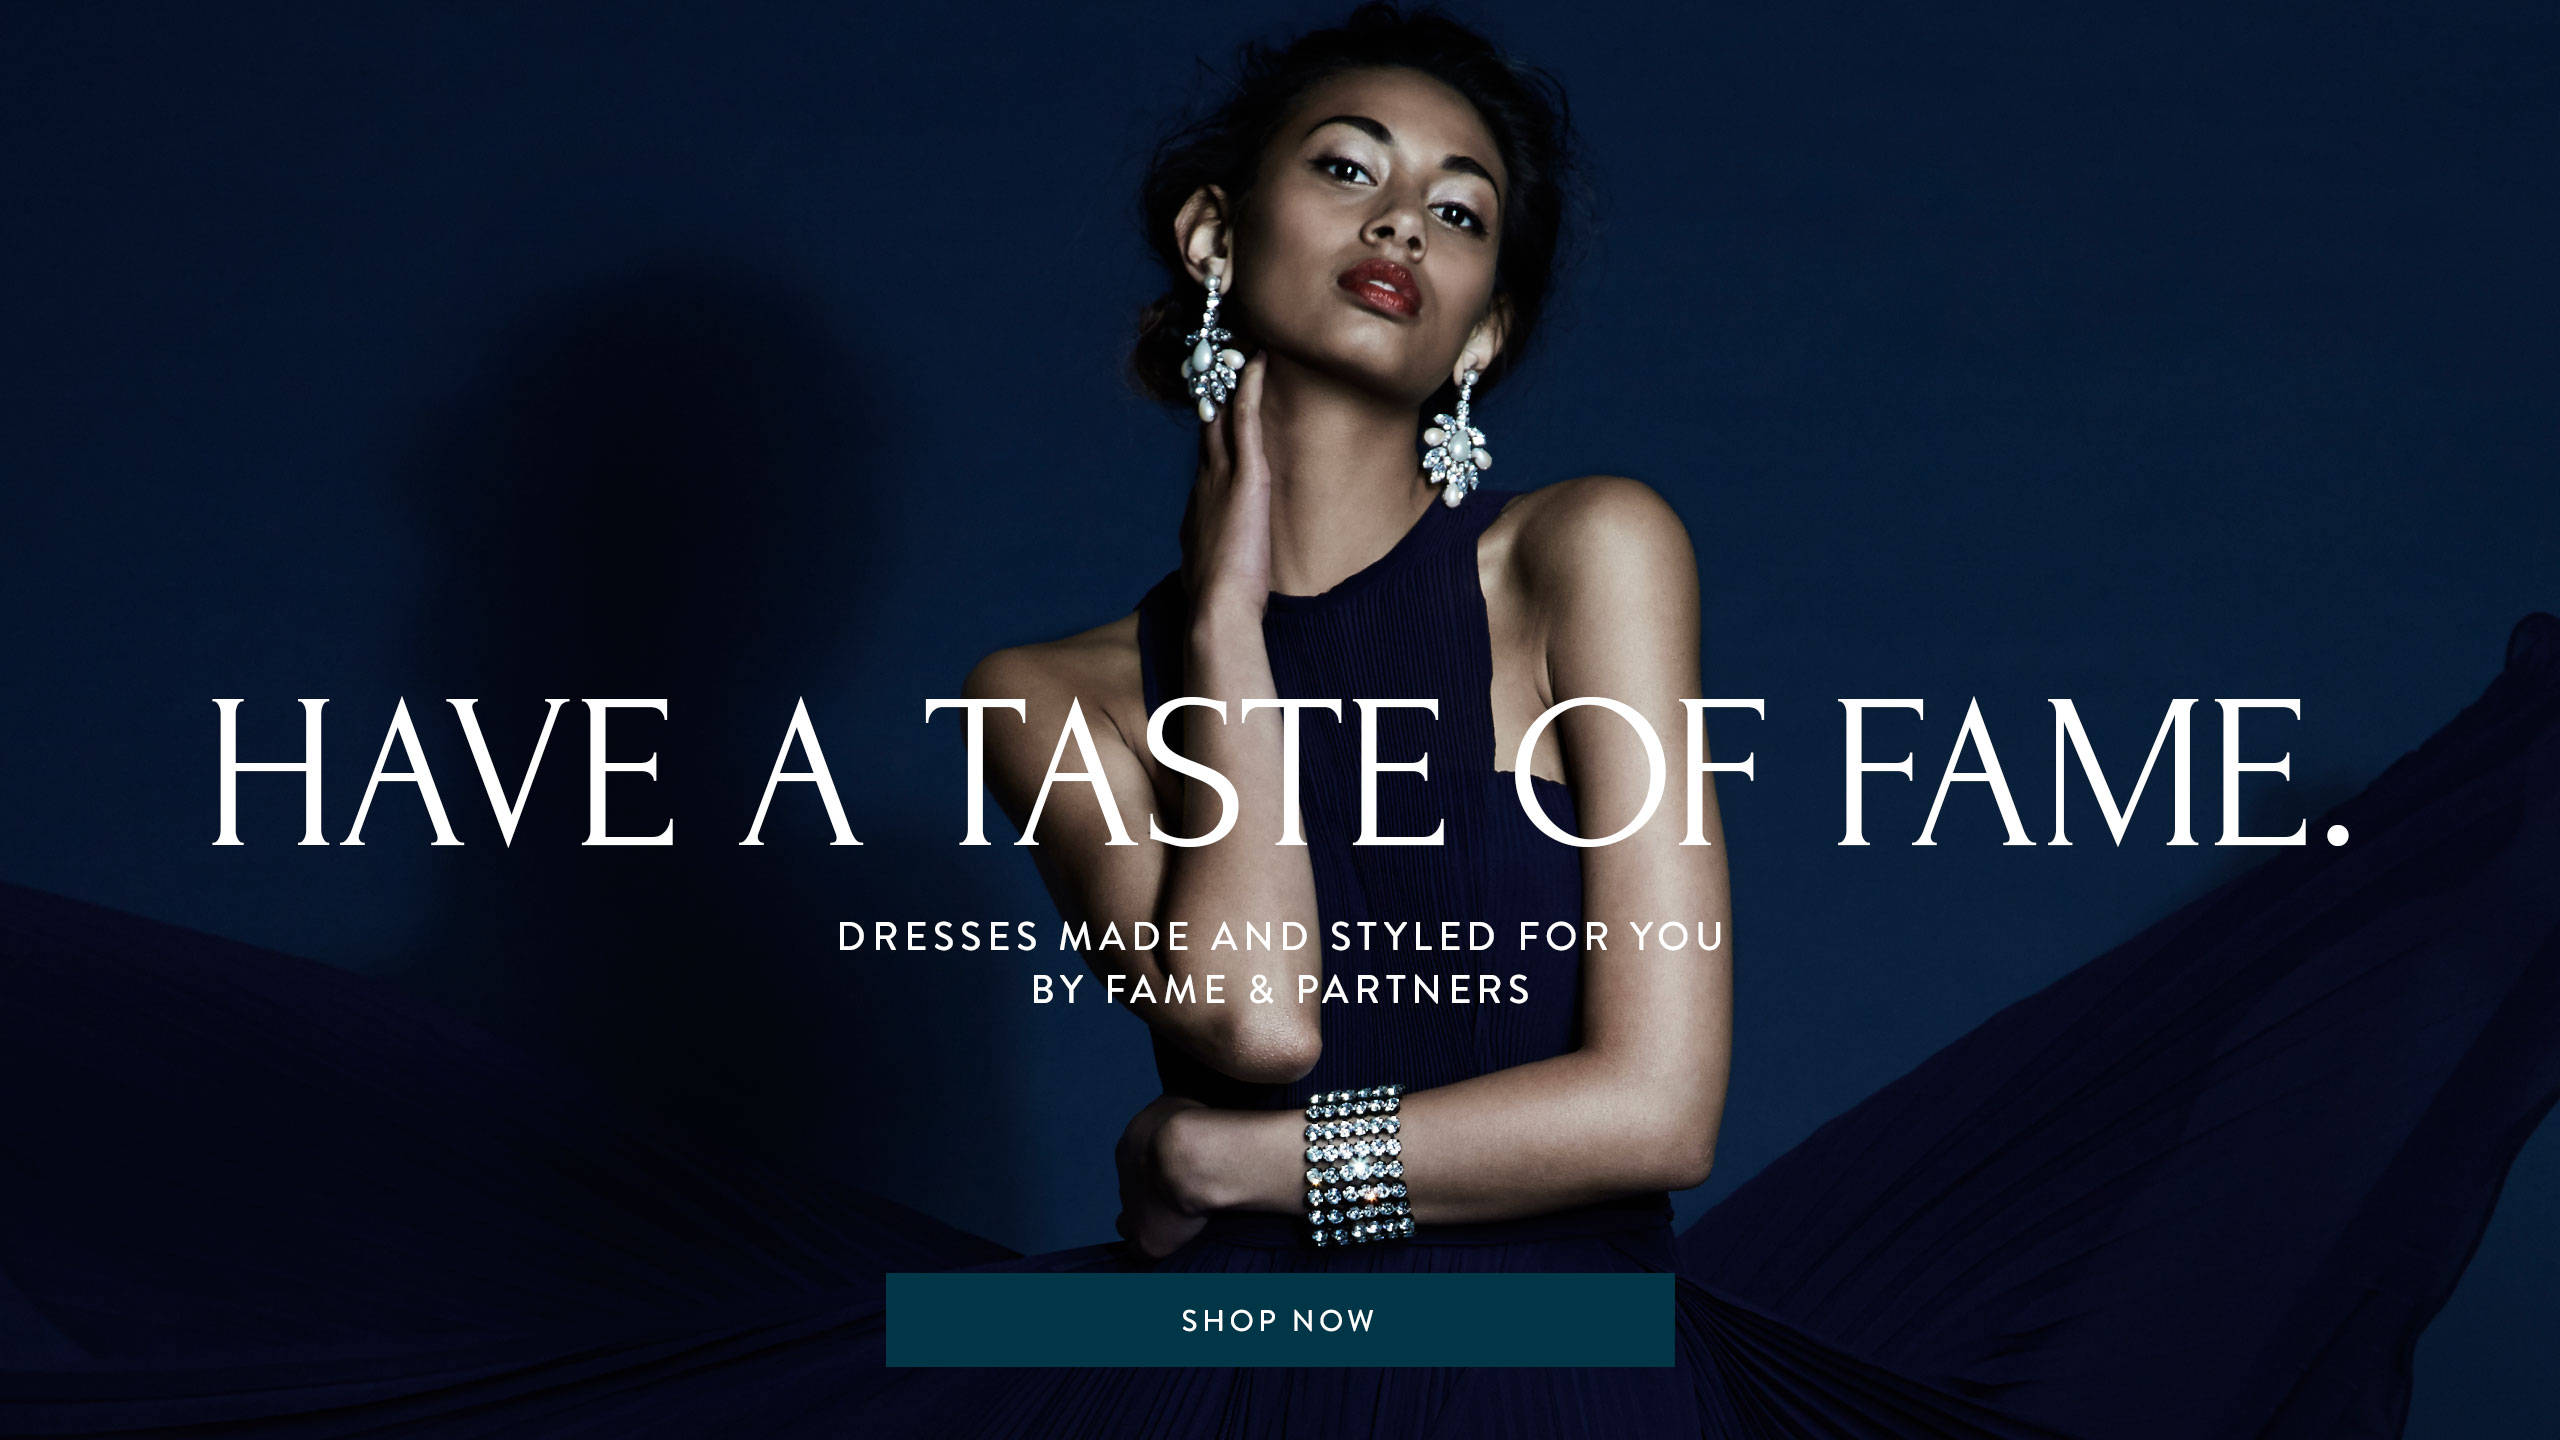
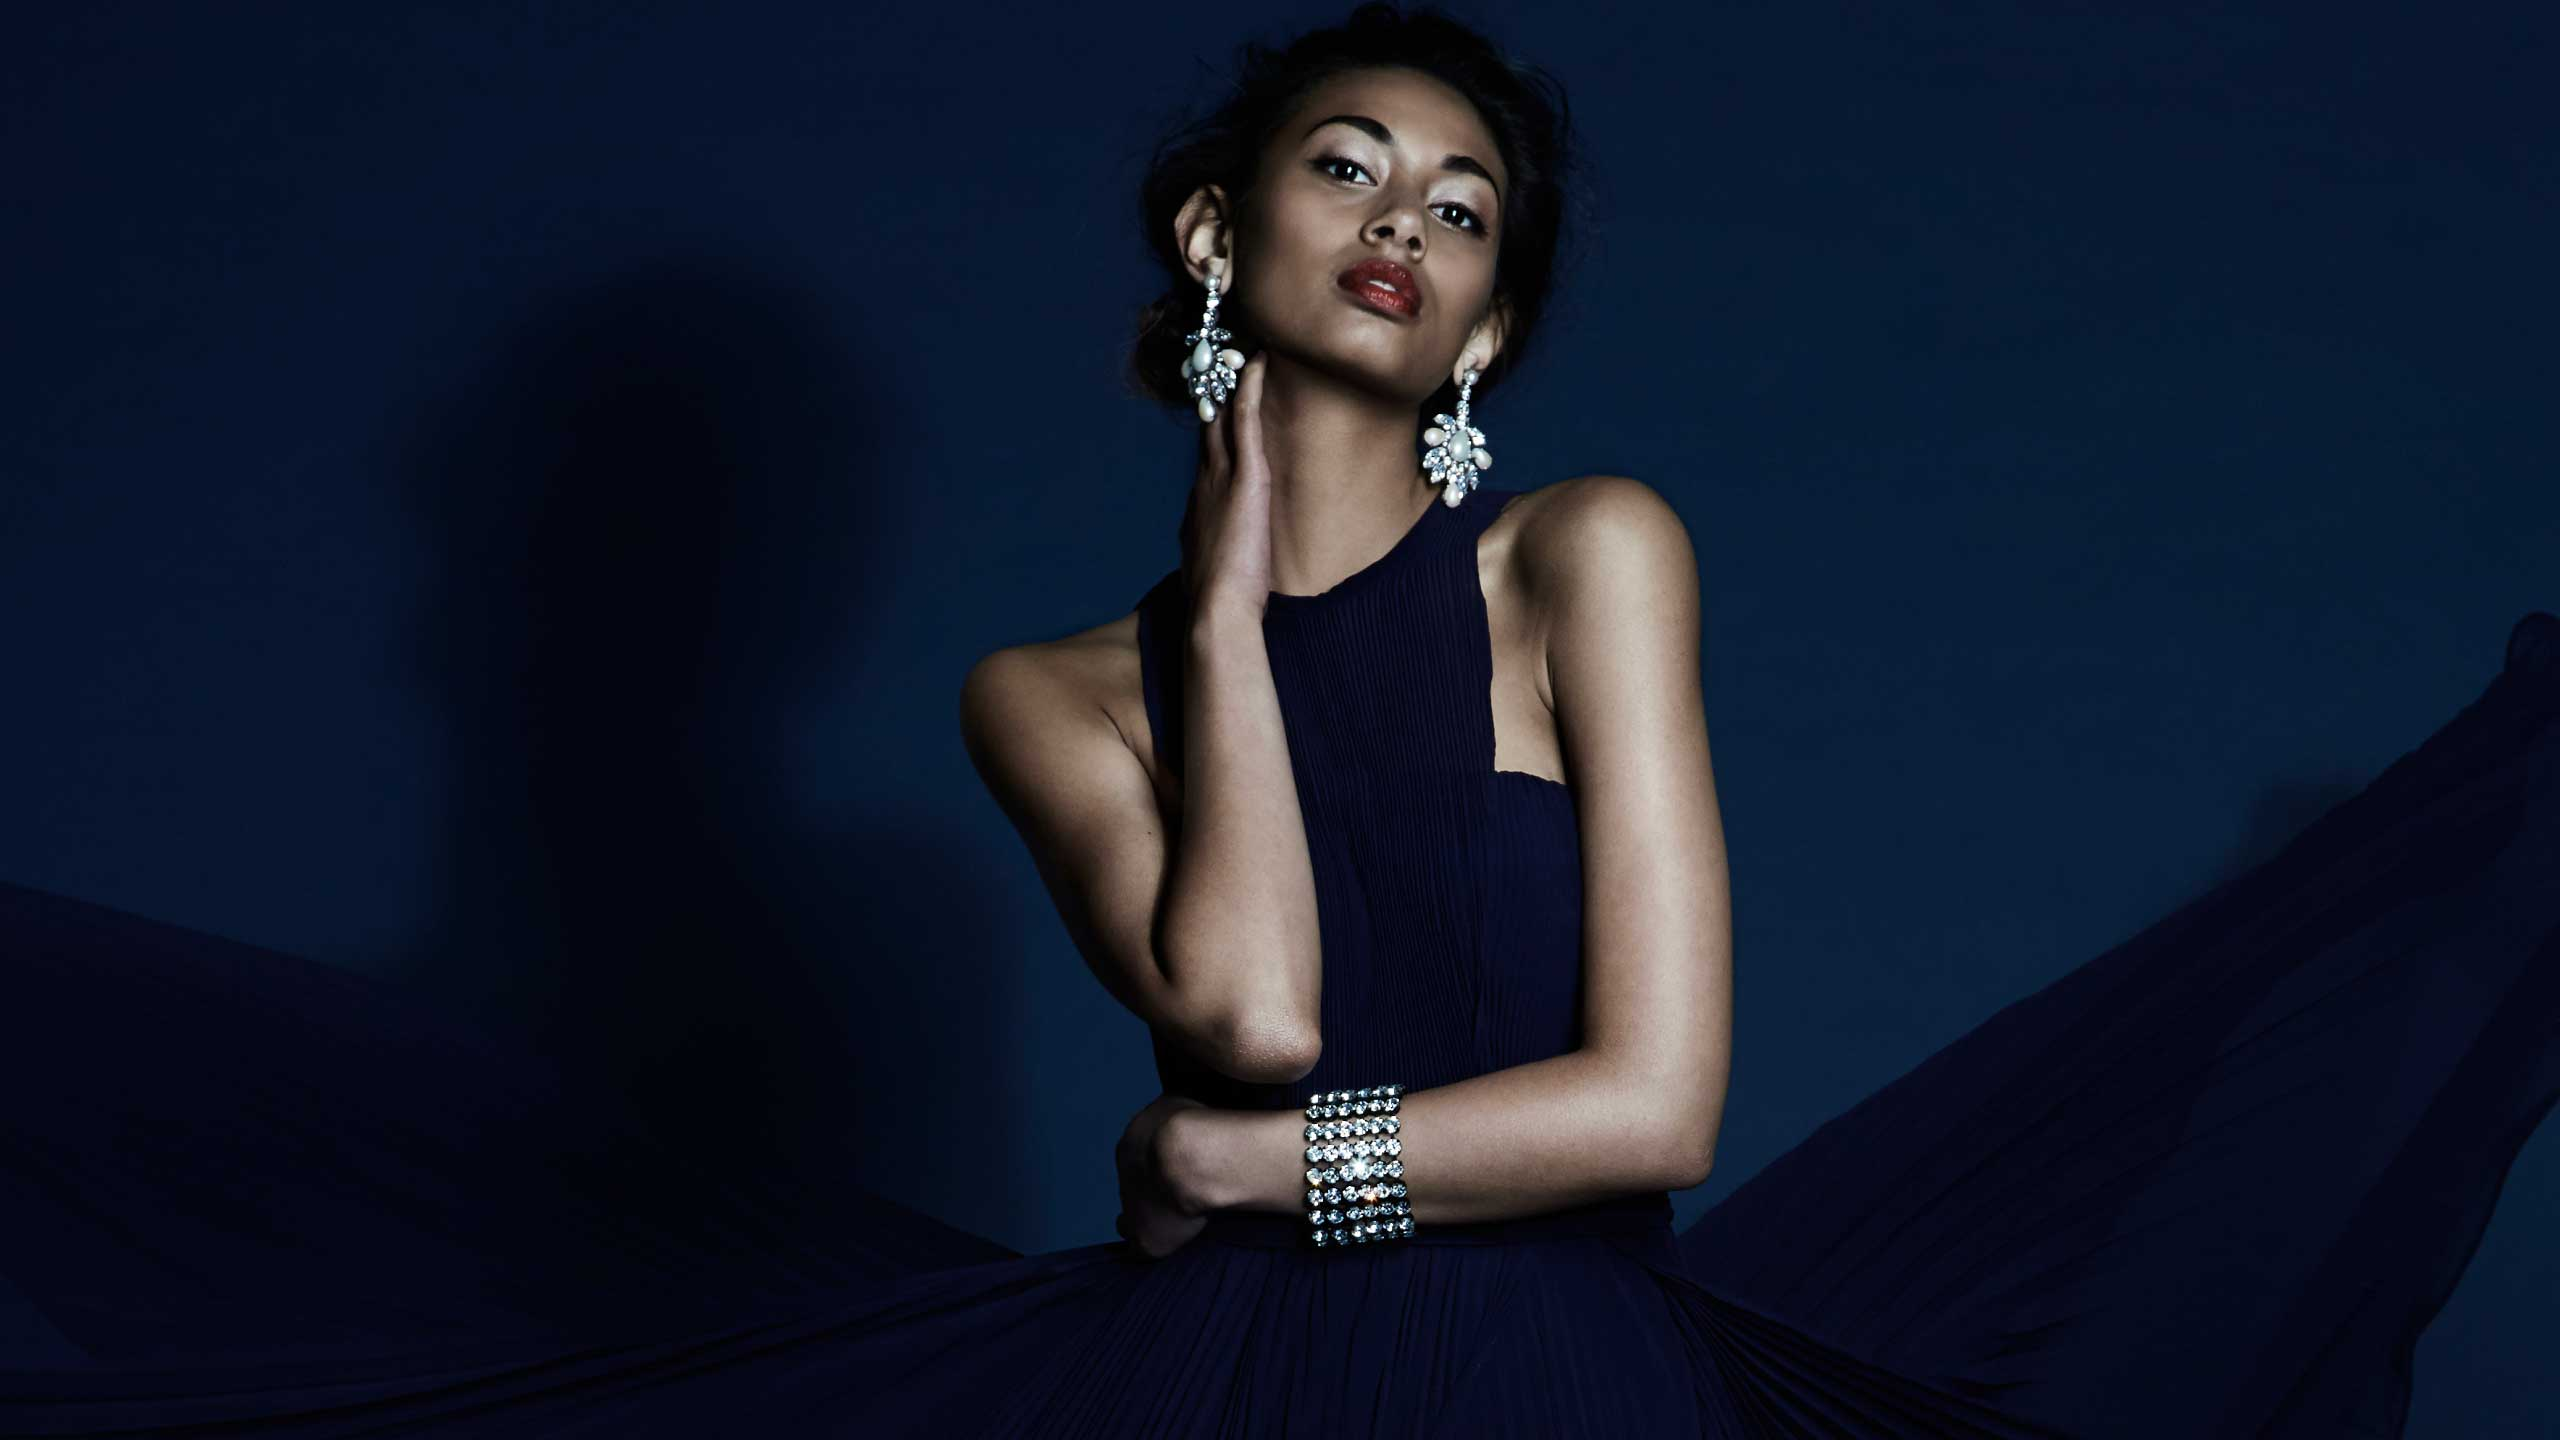
[feat][slider]: add images and style

diff --git a/app/assets/stylesheets/redesign/_index.css.scss b/app/assets/stylesheets/redesign/_index.css.scss
@@ -1,5 +1,9 @@
 .caption-title {
-	color: black;
+	color: white;
+	text-transform: uppercase;
+	font-family: forum;
+	font-size: 10.6rem;
+	letter-spacing: -1px;
 }
 
 .page-content.index {
@@ -128,7 +132,115 @@
 		font-size: 1.5rem;
 		margin-bottom: 0;
 	}
-
 }
+
+.taste-of-fame {
+	background-image: url('taste-of-fame.jpg');
+
+	.promotion {
+		text-align: center;
+		height: 50%;
+		margin-top: 30%;
+
+		p {
+			text-transform: uppercase;
+			color: white;
+			font-weight: 600;
+			letter-spacing: 2px;
+			word-spacing: 2px;
+			width: 360px;
+			margin-right: auto;
+			margin-left: auto;
+		}
+	}
+}
+
+.taste-of-fame-btn {
+	background-color: #003647;
+	font-family: "Brandon Grotesque", sans-serif;
+	color: white;
+	margin-top: 11rem;
+	width: 33%;
+}
+
+.break-hearts {
+	background-image: url('break-hearts.jpg');
+
+	.container {
+		width: 100%;
+		padding-left: 0;
+		padding-right: 0;
+	}
+
+	.promotion {
+		width: 60%;
+		float: right;
+
+
+		h2.caption-title {
+			font-family: "Brandon Grotesque", sans-serif;
+			color: black;
+			text-align: center;
+			font-size: 7rem;
+			padding-top: 22rem;
+			width: 90%;
+			margin-right: auto;
+			margin-left: auto;
+		}
+
+		p {
+			text-transform: uppercase;
+			color: black;
+			font-weight: 600;
+			letter-spacing: 2px;
+			word-spacing: 2px;
+			width: 360px;
+			margin-right: auto;
+			margin-left: auto;
+		}
+	}
+}
+
+.prom {
+	background-image: url('prom.jpg');
+
+	.promotion {
+		float: right;
+		padding-right: 5rem;
+
+
+		h2.caption-title {
+			font-family: "Brandon Grotesque", sans-serif;
+			color: black;
+			text-align: center;
+			font-size: 4rem;
+			padding-top: 14rem;
+			margin-right: auto;
+			margin-left: auto;
+			text-transform: none;
+		}
+		font-weight: 400;
+
+		p {
+			font-family: forum;
+			text-transform: uppercase;
+			font-size: 9.5rem;
+			text-align: center;
+			line-height: 7rem;
+		}
+	}
+}
+
+.prom-btn {
+	background-color: #003647;
+	font-family: "Brandon Grotesque", sans-serif;
+	color: white;
+	background-color: #ffc4b5;
+	margin-top: 2rem;
+	width: 100%;
+	margin-top: 6rem;
+}
+
+
 
 
